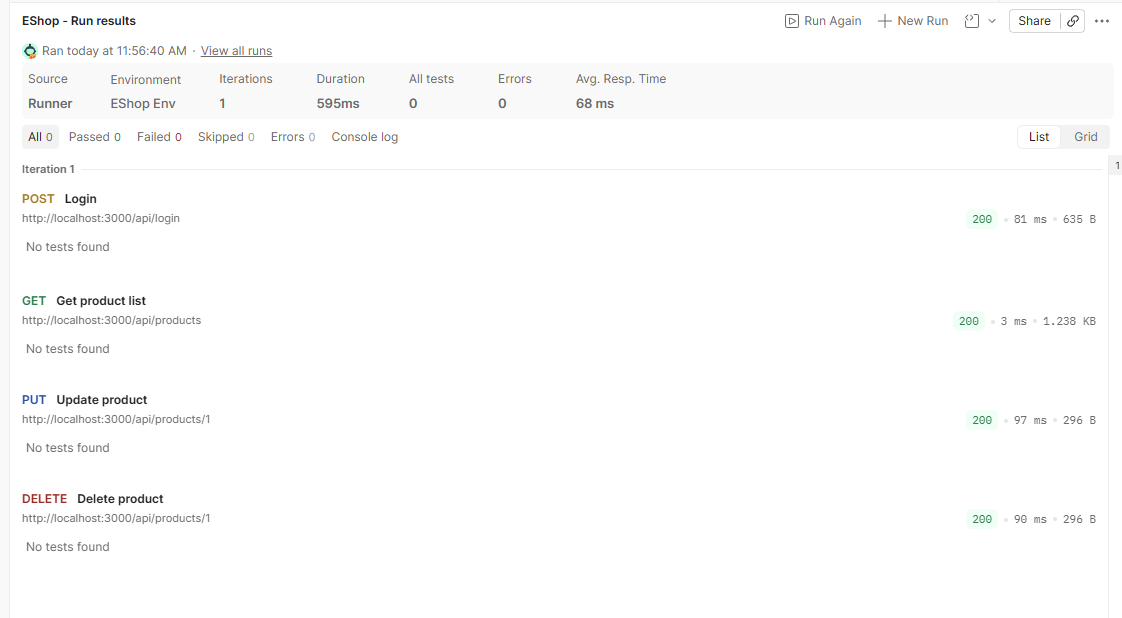
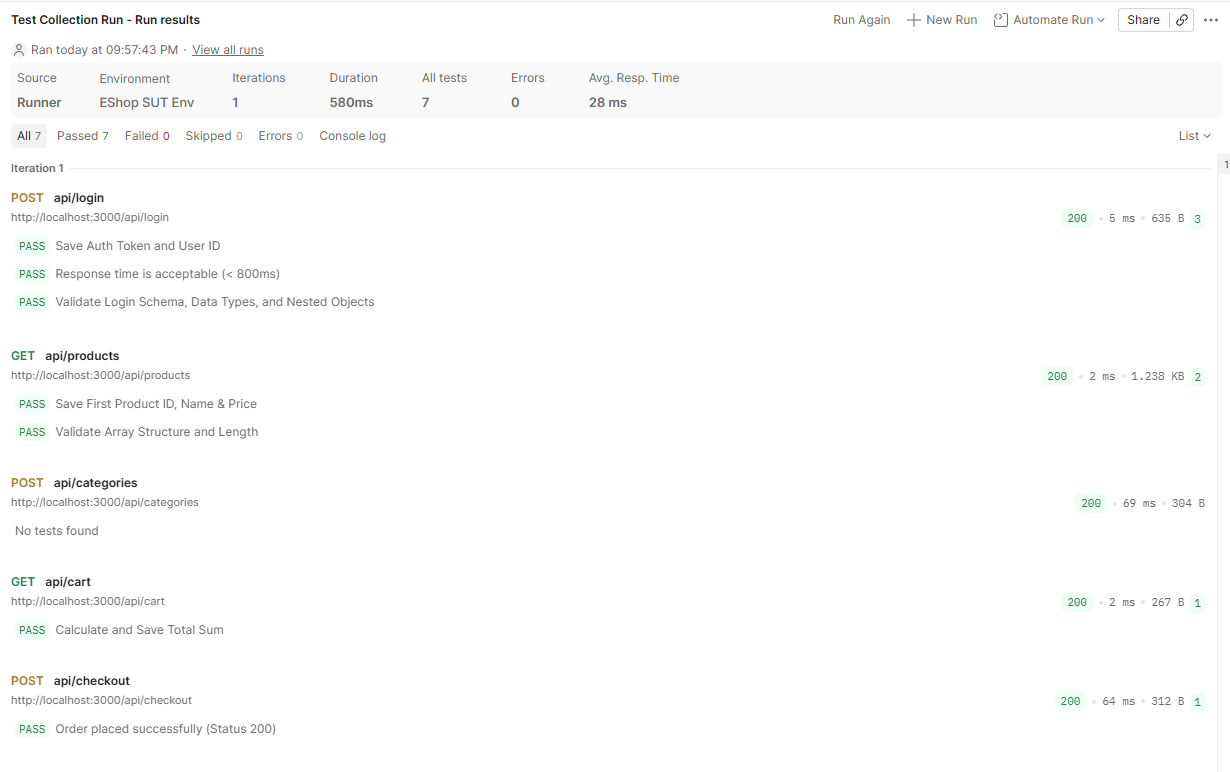
docs: update login test data + Collection Runner and Newman usage guide

diff --git a/User_Guide.md b/User_Guide.md
@@ -1156,7 +1156,7 @@ Data-driven testing allows you to run a single request (or the entire flow) mult
 1. **Prepare the Data File (`login_data.csv`)**:
    Create a CSV file with headers mapping to variables used in your requests. Each row represents a single iteration:
    ```csv
-   username,password,expected_status
+   email,password,expected_status
    [email redacted],Test1234!,200
    [email redacted],Password456!,200
    [email redacted],wrong_password,401
@@ -1173,15 +1173,15 @@ Data-driven testing allows you to run a single request (or the entire flow) mult
    });
    ```
 
-3. **Running Iterations in Collection Runner**: There are 2 ways to feed test data:
-   - **Method 1: Using a Test Data File (Requires an Enterprise account)**:
+3. **Running Iterations in Collection Runner**: There are 2 ways to feed test data **(Both require an Enterprise account)**:
+   - **Method 1: Using a Test Data File**:
      - In the Collection Runner configuration, look for the **Test data file** section.
      - Click **Select File** and upload the data file directly (e.g., `login_data.csv`).
      - Postman will automatically set the number of **Iterations** to match the rows in the file and run them sequentially.
 
         ![alt text](User_Guide_image/postman_ddt_runner.png)
 
-   - **Method 2: Using Datasets & Data Views (Free for all account types)**:
+   - **Method 2: Using Datasets & Data Views**:
      - **Create a Dataset**: Click the plus (`+`) icon next to the **Datasets** section in the Collection Runner configuration to create a new dataset and name it (e.g., `Test login dataset`).
 
        ![alt text](User_Guide_image/postman_createdataset.png)
@@ -1197,9 +1197,9 @@ Data-driven testing allows you to run a single request (or the entire flow) mult
      
 
 4. **Running Iterations in Newman**:
-   Run the test suite using the `--iteration-data` (or shorthand `-d`) flag and specify the data file. For example, running the EShop login iteration tests:
+   Run the test suite using the `--iteration-data` (or shorthand `-d`) and `--folder` flag (only if you want to run a sub folder or a specific api) and specify the data file. For example, running the EShop login iteration tests:
    ```bash
-   newman run "EShop_API_Collection.json" -e "EShop_Environment.json" -d "login_data.csv" --iteration-count 5
+   newman run "EShop_API_Collection.json" --folder "api/login" -e "EShop_Environment.json" -d "login_data.csv" --iteration-count 5
    ```
 
 